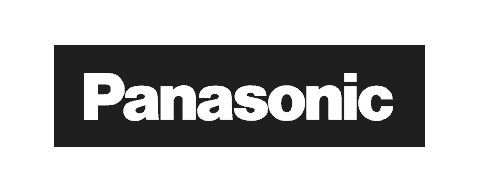
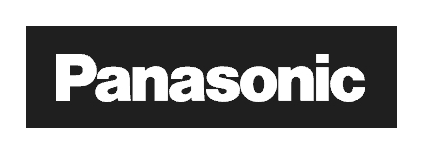
[ainsonic-web] v3 디자인 리뉴얼: 새 로고·파비콘·공유 이미지, 첫 화면 헤더, 브랜드 로고 정리, FAQ 상담 카드
기능(폼 전송 주소·데이터 로딩·JSON 스키마)은 변경 없음. 디자인 전용 변경.

Claude-Session: https://claude.ai/code/session_0131A2PNP6mBy1VH3qPmNqJZ

Changed region(s): [[0.0615, 0.1558, 0.9527, 0.8312]]

diff --git a/index.html b/index.html
@@ -6,7 +6,9 @@
 <title>아인소닉 홈페이지 | 음향·영상·CCTV·네트워크 통합 설계시공 (안산)</title>
 <meta name="description" content="아인소닉은 안산 기반 음향·영상·CCTV·네트워크·통합제어 장비 설계 시공 기업입니다. 교회, 회의실, 상가·주택 CCTV, 교육시설. 삼아사운드 공식 대리점. 010-3599-6733">
 <link rel="canonical" href="https://www.ainsonic.com/">
-<link rel="icon" href="assets/favicon.png" type="image/png">
+<link rel="icon" href="assets/favicon.svg" type="image/svg+xml">
+<link rel="icon" href="assets/favicon.png" type="image/png" sizes="64x64">
+<link rel="apple-touch-icon" href="assets/apple-touch-icon.png">
 <link rel="alternate" type="application/rss+xml" title="PRO AUDIO WIRE" href="https://news.ainsonic.com/rss.xml">
 <meta property="og:type" content="website">
 <meta property="og:site_name" content="아인소닉 홈페이지">
@@ -14,10 +16,12 @@
 <meta property="og:description" content="소리, 영상, 보안, 네트워크를 하나의 시스템으로 설계합니다.">
 <meta property="og:url" content="https://www.ainsonic.com/">
 <meta property="og:image" content="https://www.ainsonic.com/assets/logo-og.jpg">
+<meta property="og:image:width" content="1200">
+<meta property="og:image:height" content="630">
 <meta name="theme-color" content="#102A4D">
 <!-- 네이버 서치어드바이저 사이트 확인 태그를 받으면 아래 줄 주석을 풀고 값 입력 -->
 <!-- <meta name="naver-site-verification" content="여기에_값"> -->
-<script type="application/ld+json">{"@context":"https://schema.org","@type":"LocalBusiness","name":"아인소닉 (Ainsonic)","url":"https://www.ainsonic.com/","logo":"https://www.ainsonic.com/assets/logo-og.jpg","image":"https://www.ainsonic.com/assets/logo-og.jpg","telephone":"+82-10-3599-6733","email":"ainsonicav@gmail.com","description":"음향·영상·CCTV·네트워크·통합제어 장비 설계 시공 전문 기업","address":{"@type":"PostalAddress","streetAddress":"예술광장1로 115 상가동 106호","addressLocality":"안산시 상록구","addressRegion":"경기도","addressCountry":"KR"},"areaServed":"경기도","knowsAbout":["음향 시스템 설치","영상 시스템 설치","CCTV 설치","네트워크 공사","통합제어"]}</script>
+<script type="application/ld+json">{"@context":"https://schema.org","@type":"LocalBusiness","name":"아인소닉 (Ainsonic)","url":"https://www.ainsonic.com/","logo":"https://www.ainsonic.com/assets/logo.png","image":"https://www.ainsonic.com/assets/logo-og.jpg","telephone":"+82-10-3599-6733","email":"ainsonicav@gmail.com","description":"음향·영상·CCTV·네트워크·통합제어 장비 설계 시공 전문 기업","address":{"@type":"PostalAddress","streetAddress":"예술광장1로 115 상가동 106호","addressLocality":"안산시 상록구","addressRegion":"경기도","addressCountry":"KR"},"areaServed":"경기도","knowsAbout":["음향 시스템 설치","영상 시스템 설치","CCTV 설치","네트워크 공사","통합제어"]}</script>
 <script type="application/ld+json">{"@context":"https://schema.org","@type":"FAQPage","mainEntity":[{"@type":"Question","name":"음향, 영상, CCTV를 한 업체에 맡기면 무엇이 좋은가요?","acceptedAnswer":{"@type":"Answer","text":"배선 경로와 랙, 네트워크를 한 번에 설계하니 공사가 겹치지 않고 비용이 줄어듭니다. 문제가 생겼을 때 연락할 곳도 한 곳이라 원인을 찾고 고치는 시간이 짧습니다."}},{"@type":"Question","name":"견적은 어떻게 받나요?","acceptedAnswer":{"@type":"Answer","text":"아래 문의 양식이나 전화로 연락 주시면 현장 실사 일정을 잡습니다. 실사 후 설계안과 품목별 견적서를 보내드립니다. 현장 사진을 미리 보내주시면 더 정확한 상담이 가능합니다."}},{"@type":"Question","name":"기존 장비를 살리고 일부만 바꿀 수 있나요?","acceptedAnswer":{"@type":"Answer","text":"가능합니다. 실사 때 기존 스피커, 앰프, 카메라, 배선 상태를 점검하고, 계속 쓸 수 있는 장비는 살려서 필요한 부분만 교체하는 안을 함께 드립니다."}},{"@type":"Question","name":"CCTV 녹화 영상은 며칠 동안 보관되나요?","acceptedAnswer":{"@type":"Answer","text":"카메라 수와 화질, 저장장치 용량에 따라 달라집니다. 원하시는 보관 기간을 먼저 정하고, 그에 맞춰 카메라 해상도와 녹화기 용량을 설계합니다."}},{"@type":"Question","name":"공사 기간은 얼마나 걸리나요?","acceptedAnswer":{"@type":"Answer","text":"공간 규모와 배선 작업량에 따라 다릅니다. 실사 후 견적서와 함께 예상 일정을 알려드리고, 예배나 영업 시간을 피해 일정을 조율합니다."}},{"@type":"Question","name":"설치 후 관리는 어떻게 되나요?","acceptedAnswer":{"@type":"Answer","text":"설치 후 1년간 무상 A/S를 제공합니다(소모품 제외). 시공 완료 후 6개월, 1년, 2년째에 점검 시기를 안내해 드립니다."}}]}</script>
 <script src="js/theme.js"></script>
 <link rel="preconnect" href="https://fonts.googleapis.com">
@@ -30,7 +34,7 @@
 
 <header class="nav" id="nav">
   <div class="wrap">
-    <a class="brand" href="#top" aria-label="AINSONIC 홈"><img src="assets/mark.png" alt="" width="36" height="36"><b>AINSONIC</b></a>
+    <a class="brand" href="#top" aria-label="AINSONIC 홈"><svg class="logo" aria-hidden="true" focusable="false" xmlns="http://www.w3.org/2000/svg" viewBox="23.9 26.3 610.3 92.0"><defs><linearGradient id="glgW" gradientUnits="userSpaceOnUse" x1="324.72" y1="28.31" x2="412.70" y2="116.29"><stop offset="0" stop-color="#3CC8C7"/><stop offset="1" stop-color="#0E9A9A"/></linearGradient></defs><path d="M83.88 99.72H52.44L47.4 114.6H25.92L56.4 30.36H80.16L110.64 114.6H88.92ZM78.6 83.88 68.16 53.04 57.839999999999996 83.88Z M143.4 30.36V114.6H122.88V30.36Z M236.64 114.6H216.12L181.8 62.63999999999999V114.6H161.28V30.36H181.8L216.12 82.56V30.36H236.64Z M252.11999999999998 89.39999999999999H273.96Q274.44 94.08 277.2 96.53999999999999Q279.96 99.0 284.4 99.0Q288.96 99.0 291.6 96.9Q294.24 94.8 294.24 91.08Q294.24 87.96 292.14 85.91999999999999Q290.03999999999996 83.88 286.97999999999996 82.56Q283.91999999999996 81.24 278.28 79.56Q270.12 77.03999999999999 264.96 74.52Q259.79999999999995 72.0 256.08 67.08Q252.35999999999999 62.16 252.35999999999999 54.239999999999995Q252.35999999999999 42.480000000000004 260.88 35.82Q269.4 29.159999999999997 283.08 29.159999999999997Q297.0 29.159999999999997 305.52 35.82Q314.03999999999996 42.480000000000004 314.64 54.36H292.44Q292.2 50.28 289.44 47.94Q286.68 45.599999999999994 282.36 45.599999999999994Q278.64 45.599999999999994 276.36 47.58Q274.08 49.56 274.08 53.279999999999994Q274.08 57.36 277.91999999999996 59.64Q281.76 61.919999999999995 289.91999999999996 64.56Q298.08 67.32 303.17999999999995 69.84Q308.28 72.36 312.0 77.16Q315.71999999999997 81.96 315.71999999999997 89.52Q315.71999999999997 96.72 312.05999999999995 102.6Q308.4 108.47999999999999 301.43999999999994 111.96Q294.47999999999996 115.44 285.0 115.44Q275.76 115.44 268.44 112.44Q261.12 109.44 256.74 103.56Q252.35999999999999 97.67999999999999 252.11999999999998 89.39999999999999Z" fill="currentColor"/><path d="M324.72,72.30 a43.99,43.99 0 1,0 87.98,0 a43.99,43.99 0 1,0 -87.98,0 Z M339.68,72.30 a29.03,29.03 0 1,1 58.07,0 a29.03,29.03 0 1,1 -58.07,0 Z" fill="url(#glgW)" fill-rule="evenodd"/><path d="M346.06,72.30 Q357.39,50.79 368.71,72.30 T391.36,72.30" fill="none" stroke="url(#glgW)" stroke-width="8.36" stroke-linecap="round" stroke-linejoin="round"/><path d="M497.064 114.6H476.544L442.224 62.63999999999999V114.6H421.704V30.36H442.224L476.544 82.56V30.36H497.064Z M535.464 30.36V114.6H514.9440000000001V30.36Z M592.224 29.39999999999999Q607.224 29.39999999999999 617.904 37.31999999999999Q628.584 45.239999999999995 632.184 58.919999999999995H609.624Q607.104 53.63999999999999 602.484 50.879999999999995Q597.864 48.11999999999999 591.984 48.11999999999999Q582.504 48.11999999999999 576.624 54.71999999999999Q570.744 61.31999999999999 570.744 72.36Q570.744 83.39999999999999 576.624 90.0Q582.504 96.6 591.984 96.6Q597.864 96.6 602.484 93.84Q607.104 91.08 609.624 85.8H632.184Q628.584 99.47999999999999 617.904 107.33999999999999Q607.224 115.19999999999999 592.224 115.19999999999999Q579.984 115.19999999999999 570.3240000000001 109.74Q560.664 104.28 555.264 94.56Q549.864 84.84 549.864 72.36Q549.864 59.879999999999995 555.264 50.099999999999994Q560.664 40.31999999999999 570.3240000000001 34.85999999999999Q579.984 29.39999999999999 592.224 29.39999999999999Z" fill="currentColor"/></svg></a>
     <nav aria-label="주 메뉴">
       <div class="menu" id="menu">
         <a href="#services">사업영역</a><a href="#clients">고객사</a><a href="#process">진행 과정</a><a href="#brands">브랜드</a><a href="#board">공지·소식</a><a href="#faq">FAQ</a><a href="#contact">문의</a>
@@ -87,7 +91,7 @@
 
 <section class="newsbar" aria-labelledby="nbT">
   <div class="wrap">
-    <div class="nb-head"><h2 id="nbT">🔥 주요 신제품 소식</h2><span>국내 수입사 &amp; 주요 런칭 6선</span><a href="https://news.ainsonic.com/" target="_blank" rel="noopener">PRO AUDIO WIRE 전체 보기 →</a></div>
+    <div class="nb-head"><h2 id="nbT">주요 신제품 소식</h2><span>국내 수입사 &amp; 주요 런칭 6선</span><a href="https://news.ainsonic.com/" target="_blank" rel="noopener">PRO AUDIO WIRE 전체 보기 →</a></div>
     <div class="nb-list" id="newsTopList"><div class="empty">업계 소식을 불러오는 중입니다.</div></div>
   </div>
 </section>
@@ -142,16 +146,16 @@
   <div class="wrap">
     <div class="sec-h"><p class="eyebrow">Brands</p><h2>검증된 브랜드의 정품 장비로 시공합니다</h2></div>
     <ul class="brands">
-      <li><img src="assets/brands/hk-audio.png" alt="HK Audio" width="480" height="192" loading="lazy"></li>
-      <li><img src="assets/brands/martin-audio.png" alt="Martin Audio" width="480" height="192" loading="lazy"></li>
-      <li><img src="assets/brands/allen-heath.png" alt="Allen &amp; Heath" width="480" height="192" loading="lazy"></li>
-      <li><img src="assets/brands/shure.png" alt="Shure" width="480" height="192" loading="lazy"></li>
-      <li><img src="assets/brands/genelec.png" alt="Genelec" width="480" height="192" loading="lazy"></li>
-      <li><img src="assets/brands/q-sys.png" alt="Q-SYS" width="480" height="192" loading="lazy"></li>
+      <li><img src="assets/brands/hk-audio.png" alt="HK Audio" width="166" height="168" loading="lazy"></li>
+      <li><img src="assets/brands/martin-audio.png" alt="Martin Audio" width="159" height="168" loading="lazy"></li>
+      <li><img src="assets/brands/allen-heath.png" alt="Allen &amp; Heath" width="480" height="119" loading="lazy"></li>
+      <li><img src="assets/brands/shure.png" alt="Shure" width="440" height="190" loading="lazy"></li>
+      <li><img src="assets/brands/genelec.png" alt="Genelec" width="480" height="136" loading="lazy"></li>
+      <li><img src="assets/brands/q-sys.png" alt="Q-SYS" width="408" height="131" loading="lazy"></li>
       <li><img src="assets/brands/blackmagic-design.png" alt="Blackmagic Design" width="480" height="192" loading="lazy"></li>
-      <li><img src="assets/brands/epson.png" alt="Epson" width="480" height="192" loading="lazy"></li>
-      <li><img src="assets/brands/nec.png" alt="NEC" width="480" height="192" loading="lazy"></li>
-      <li><img src="assets/brands/panasonic.png" alt="Panasonic" width="480" height="192" loading="lazy"></li>
+      <li><img src="assets/brands/epson.png" alt="Epson" width="480" height="166" loading="lazy"></li>
+      <li><img src="assets/brands/nec.png" alt="NEC" width="257" height="94" loading="lazy"></li>
+      <li><img src="assets/brands/panasonic.png" alt="Panasonic" width="423" height="154" loading="lazy"></li>
     </ul>
     <p class="dealer"><span><b>삼아사운드</b> 공식 대리점</span><span>협력사 <b>디엠시정보</b></span></p>
   </div>
@@ -174,6 +178,7 @@
 <section class="sec" id="faq">
   <div class="wrap">
     <div class="sec-h"><p class="eyebrow">FAQ</p><h2>자주 묻는 질문</h2></div>
+    <div class="faq-grid">
     <div class="faq">
       <details open><summary>음향, 영상, CCTV를 한 업체에 맡기면 무엇이 좋은가요?</summary><p>배선 경로와 랙, 네트워크를 한 번에 설계하니 공사가 겹치지 않고 비용이 줄어듭니다. 문제가 생겼을 때 연락할 곳도 한 곳이라 원인을 찾고 고치는 시간이 짧습니다.</p></details>
       <details><summary>견적은 어떻게 받나요?</summary><p>아래 문의 양식이나 전화로 연락 주시면 현장 실사 일정을 잡습니다. 실사 후 설계안과 품목별 견적서를 보내드립니다. 현장 사진을 미리 보내주시면 더 정확한 상담이 가능합니다.</p></details>
@@ -181,6 +186,14 @@
       <details><summary>CCTV 녹화 영상은 며칠 동안 보관되나요?</summary><p>카메라 수와 화질, 저장장치 용량에 따라 달라집니다. 원하시는 보관 기간을 먼저 정하고, 그에 맞춰 카메라 해상도와 녹화기 용량을 설계합니다.</p></details>
       <details><summary>공사 기간은 얼마나 걸리나요?</summary><p>공간 규모와 배선 작업량에 따라 다릅니다. 실사 후 견적서와 함께 예상 일정을 알려드리고, 예배나 영업 시간을 피해 일정을 조율합니다.</p></details>
       <details><summary>설치 후 관리는 어떻게 되나요?</summary><p>설치 후 1년간 무상 A/S를 제공합니다(소모품 제외). 시공 완료 후 6개월, 1년, 2년째에 점검 시기를 안내해 드립니다.</p></details>
+    </div>
+    <aside class="faq-cta" aria-label="상담 안내">
+      <p class="eyebrow">Need help?</p>
+      <h3>찾는 답이 없으신가요?</h3>
+      <p>현장 사진 몇 장만 보내주셔도 필요한 장비와 대략의 범위를 알려드립니다.</p>
+      <a class="btn btn-main" href="#contact">견적·현장실사 신청</a>
+      <a class="btn btn-ghost" href="tel:01035996733">전화 상담 010-3599-6733</a>
+    </aside>
     </div>
   </div>
 </section>
@@ -236,8 +249,8 @@
 <footer class="foot">
   <div class="wrap">
     <div>
-      <a class="brand" href="#top" aria-label="맨 위로"><img src="assets/mark.png" alt="" width="34" height="34"><b>AINSONIC</b></a>
-      <div class="tagline">SOUND | VISION | INNOVATION</div>
+      <a class="brand" href="#top" aria-label="맨 위로"><svg class="logo" aria-hidden="true" focusable="false" xmlns="http://www.w3.org/2000/svg" viewBox="23.9 26.3 610.3 92.0"><defs><linearGradient id="glgF" gradientUnits="userSpaceOnUse" x1="324.72" y1="28.31" x2="412.70" y2="116.29"><stop offset="0" stop-color="#3CC8C7"/><stop offset="1" stop-color="#0E9A9A"/></linearGradient></defs><path d="M83.88 99.72H52.44L47.4 114.6H25.92L56.4 30.36H80.16L110.64 114.6H88.92ZM78.6 83.88 68.16 53.04 57.839999999999996 83.88Z M143.4 30.36V114.6H122.88V30.36Z M236.64 114.6H216.12L181.8 62.63999999999999V114.6H161.28V30.36H181.8L216.12 82.56V30.36H236.64Z M252.11999999999998 89.39999999999999H273.96Q274.44 94.08 277.2 96.53999999999999Q279.96 99.0 284.4 99.0Q288.96 99.0 291.6 96.9Q294.24 94.8 294.24 91.08Q294.24 87.96 292.14 85.91999999999999Q290.03999999999996 83.88 286.97999999999996 82.56Q283.91999999999996 81.24 278.28 79.56Q270.12 77.03999999999999 264.96 74.52Q259.79999999999995 72.0 256.08 67.08Q252.35999999999999 62.16 252.35999999999999 54.239999999999995Q252.35999999999999 42.480000000000004 260.88 35.82Q269.4 29.159999999999997 283.08 29.159999999999997Q297.0 29.159999999999997 305.52 35.82Q314.03999999999996 42.480000000000004 314.64 54.36H292.44Q292.2 50.28 289.44 47.94Q286.68 45.599999999999994 282.36 45.599999999999994Q278.64 45.599999999999994 276.36 47.58Q274.08 49.56 274.08 53.279999999999994Q274.08 57.36 277.91999999999996 59.64Q281.76 61.919999999999995 289.91999999999996 64.56Q298.08 67.32 303.17999999999995 69.84Q308.28 72.36 312.0 77.16Q315.71999999999997 81.96 315.71999999999997 89.52Q315.71999999999997 96.72 312.05999999999995 102.6Q308.4 108.47999999999999 301.43999999999994 111.96Q294.47999999999996 115.44 285.0 115.44Q275.76 115.44 268.44 112.44Q261.12 109.44 256.74 103.56Q252.35999999999999 97.67999999999999 252.11999999999998 89.39999999999999Z" fill="currentColor"/><path d="M324.72,72.30 a43.99,43.99 0 1,0 87.98,0 a43.99,43.99 0 1,0 -87.98,0 Z M339.68,72.30 a29.03,29.03 0 1,1 58.07,0 a29.03,29.03 0 1,1 -58.07,0 Z" fill="url(#glgF)" fill-rule="evenodd"/><path d="M346.06,72.30 Q357.39,50.79 368.71,72.30 T391.36,72.30" fill="none" stroke="url(#glgF)" stroke-width="8.36" stroke-linecap="round" stroke-linejoin="round"/><path d="M497.064 114.6H476.544L442.224 62.63999999999999V114.6H421.704V30.36H442.224L476.544 82.56V30.36H497.064Z M535.464 30.36V114.6H514.9440000000001V30.36Z M592.224 29.39999999999999Q607.224 29.39999999999999 617.904 37.31999999999999Q628.584 45.239999999999995 632.184 58.919999999999995H609.624Q607.104 53.63999999999999 602.484 50.879999999999995Q597.864 48.11999999999999 591.984 48.11999999999999Q582.504 48.11999999999999 576.624 54.71999999999999Q570.744 61.31999999999999 570.744 72.36Q570.744 83.39999999999999 576.624 90.0Q582.504 96.6 591.984 96.6Q597.864 96.6 602.484 93.84Q607.104 91.08 609.624 85.8H632.184Q628.584 99.47999999999999 617.904 107.33999999999999Q607.224 115.19999999999999 592.224 115.19999999999999Q579.984 115.19999999999999 570.3240000000001 109.74Q560.664 104.28 555.264 94.56Q549.864 84.84 549.864 72.36Q549.864 59.879999999999995 555.264 50.099999999999994Q560.664 40.31999999999999 570.3240000000001 34.85999999999999Q579.984 29.39999999999999 592.224 29.39999999999999Z" fill="currentColor"/></svg></a>
+      <div class="tagline">SOUND · VISION · SECURITY · NETWORK</div>
       <div class="fmeta">아인소닉 · <span class="keep">사업자등록번호 750-11-00912</span><br><span class="keep">경기도 안산시 상록구</span> <span class="keep">예술광장1로 115, 상가동 106호</span><br><span class="keep">010-3599-6733</span> · <a href="mailto:ainsonicav@gmail.com">ainsonicav@gmail.com</a></div>
     </div>
     <div class="fmeta r">삼아사운드 공식 대리점 · 협력사 디엠시정보<br>www.ainsonic.com<br>© 2026 Ainsonic</div>

diff --git a/css/site.css b/css/site.css
@@ -303,3 +303,58 @@ fieldset{border:0;padding:0;margin:0 0 16px}
 /* 한 줄 말줄임이 그리드 칸을 밀어내지 않도록 */
 .two>*,.panel,.list{min-width:0}
 .list a.row,.list summary{min-width:0}
+
+/* =========================================================
+   v3 리뉴얼 (2026-10) — 새 로고 · 브랜드 컬러 통일 · 디자인 정리
+   기능(JS 동작·폼·데이터)은 그대로, 보이는 것만 바꿉니다.
+   ========================================================= */
+:root{--brand-blue:#1B5FAE;--logo-ink:var(--brand-blue);--accent:#0A7473;--accent-strong:#075F5F}
+@media (prefers-color-scheme:dark){:root:not([data-theme="light"]){--logo-ink:#FFFFFF;--accent:#3CC8C7;--accent-strong:#3CC8C7}}
+:root[data-theme="dark"]{--logo-ink:#FFFFFF;--accent:#3CC8C7;--accent-strong:#3CC8C7}
+
+/* 로고 */
+.brand{color:var(--logo-ink)}
+.brand .logo{display:block;height:30px;width:auto}
+@media (max-width:520px){.brand .logo{height:25px}}
+.foot .brand{color:#fff;min-height:44px}
+.foot .brand .logo{height:28px}
+.foot .tagline{margin-top:10px}
+
+/* 첫 화면: 헤더를 히어로와 이어지는 어두운 톤으로 (스크롤하면 원래 밝은 헤더) */
+.nav{transition:background-color .3s,border-color .3s}
+.nav.on-hero:not(.open){background:rgba(6,16,29,.94);border-bottom-color:var(--hero-line)}
+.nav.on-hero:not(.open) .brand{color:#fff}
+.nav.on-hero:not(.open) .menu a{color:var(--hero-dim)}
+.nav.on-hero:not(.open) .menu a:hover,.nav.on-hero:not(.open) .menu a[aria-current="true"]{color:#fff;background:rgba(255,255,255,.07)}
+.nav.on-hero:not(.open) .tel{color:var(--hero-dim)}
+.nav.on-hero:not(.open) .icon-btn{background:transparent;border-color:var(--hero-line);color:#fff}
+.nav.on-hero:not(.open) .nav-cta{background:var(--teal);color:#04202A}
+
+/* 소식 불러오기 실패/빈 상태: 줄 전체를 쓰고 가운데 정렬 */
+.nb-list>.empty{grid-column:1/-1;flex:1 1 100%}
+.empty{display:flex;flex-wrap:wrap;align-items:center;justify-content:center;gap:4px 10px;padding:26px 20px;background:var(--bg);font-size:15px}
+.empty a{color:var(--accent);font-weight:600}
+
+/* 브랜드: 회색조로 무게를 맞추고, 마우스를 올리면 원래 색 */
+.brands li{background:#fff;height:92px;padding:16px 18px;transition:border-color .2s,box-shadow .2s}
+.brands img{max-height:40px;max-width:74%;filter:grayscale(1) contrast(1.05);opacity:.7;transition:filter .25s,opacity .25s}
+.brands img[src*="hk-audio"],.brands img[src*="martin-audio"]{max-height:56px}
+.brands img[src*="nec"]{max-height:30px}
+.brands img[src*="epson"],.brands img[src*="genelec"],.brands img[src*="allen-heath"]{max-height:32px}
+.brands li:hover{border-color:var(--accent);box-shadow:var(--shadow)}
+.brands li:hover img{filter:none;opacity:1}
+@media (hover:none){.brands img{filter:none;opacity:1}}
+
+/* FAQ + 오른쪽 상담 카드 */
+.faq-grid{display:grid;grid-template-columns:minmax(0,1fr) 340px;gap:32px;align-items:start}
+.faq-grid .faq{max-width:none}
+.faq-cta{position:sticky;top:calc(var(--nav-h) + 20px);display:grid;gap:12px;background:var(--surface);border:1px solid var(--line);border-radius:var(--r);padding:28px;box-shadow:var(--shadow)}
+.faq-cta h3{font-size:21px}
+.faq-cta>p:not(.eyebrow){color:var(--ink-2);font-size:15px;margin-bottom:6px}
+.faq-cta .btn{width:100%}
+@media (max-width:900px){.faq-grid{grid-template-columns:1fr}.faq-cta{position:static}}
+
+/* 신제품 소식 제목: 아이콘 대신 브랜드 점 */
+.nb-head h2{display:inline-flex;align-items:center;gap:10px}
+.nb-head h2::before{content:"";width:8px;height:8px;border-radius:50%;background:var(--teal);box-shadow:0 0 0 4px var(--accent-soft)}
+.brands img[src*="blackmagic"],.brands img[src*="shure"],.brands img[src*="panasonic"]{max-width:86%;max-height:42px}

diff --git a/js/main.js b/js/main.js
@@ -69,6 +69,9 @@
       Object.keys(links).forEach(function (id) { var s = document.getElementById(id); if (s) spy.observe(s); });
       var dock = $('#dock'), contact = $('#contact');
       if (dock && contact) new IntersectionObserver(function (es) { dock.classList.toggle('gone', es[0].isIntersecting); }, { threshold: 0.15 }).observe(contact);
+      /* 디자인 전용: 첫 화면(히어로) 위에서는 헤더를 히어로와 같은 어두운 톤으로 이어 붙인다 */
+      var navEl = $('#nav'), heroEl = $('.hero');
+      if (navEl && heroEl) new IntersectionObserver(function (es) { navEl.classList.toggle('on-hero', es[0].isIntersecting); }, { rootMargin: '-68px 0px 0px 0px', threshold: 0 }).observe(heroEl);
     }
   })();
 
